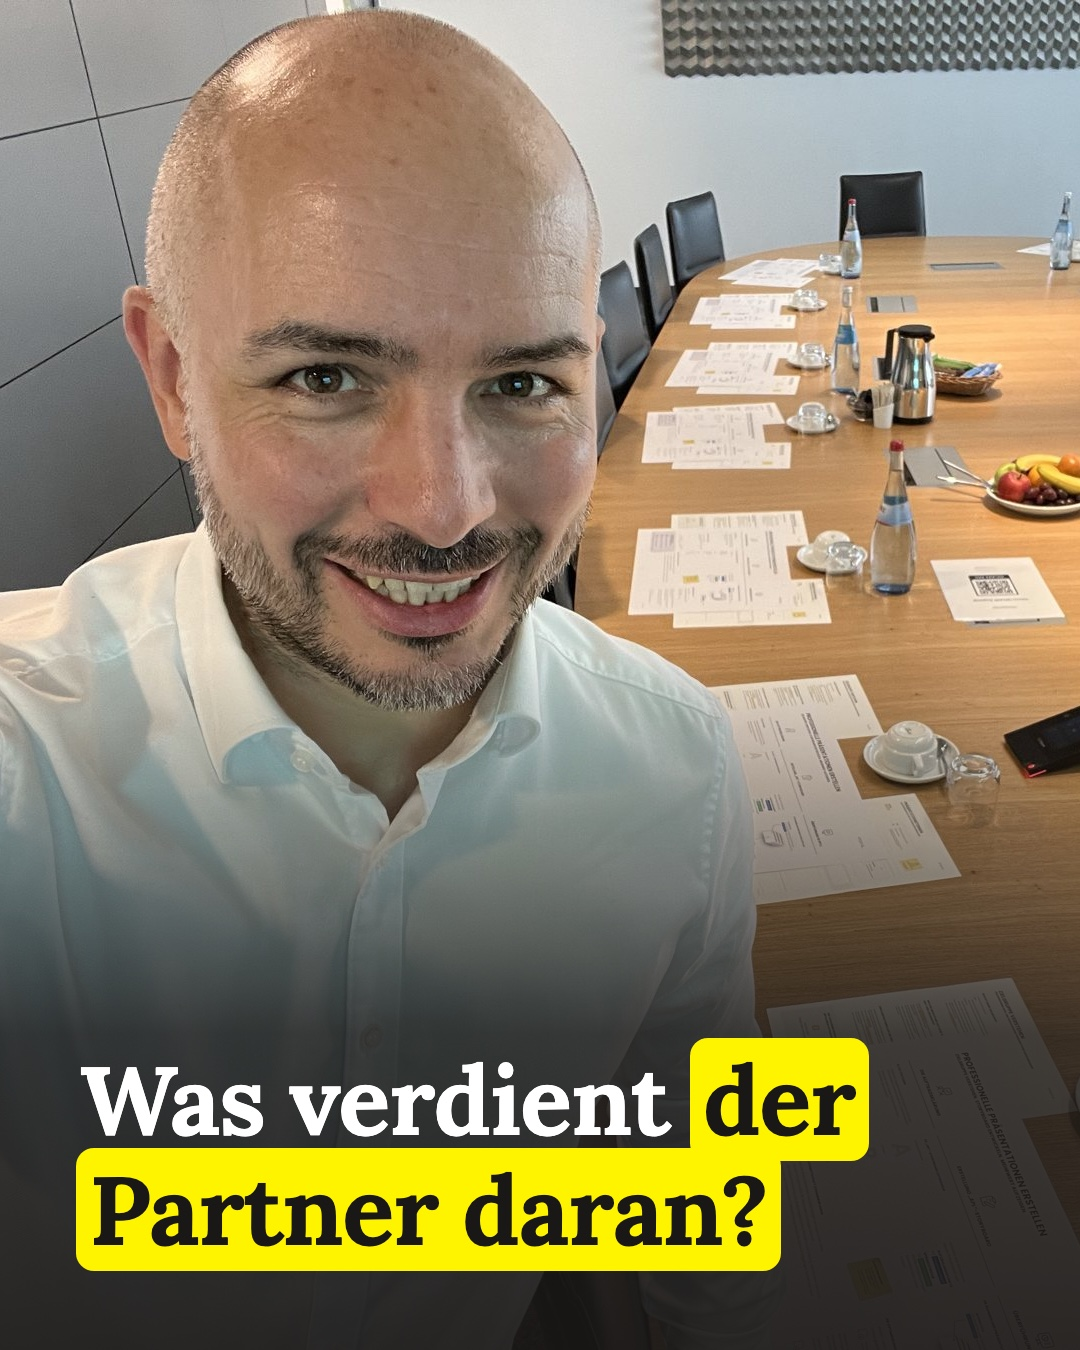
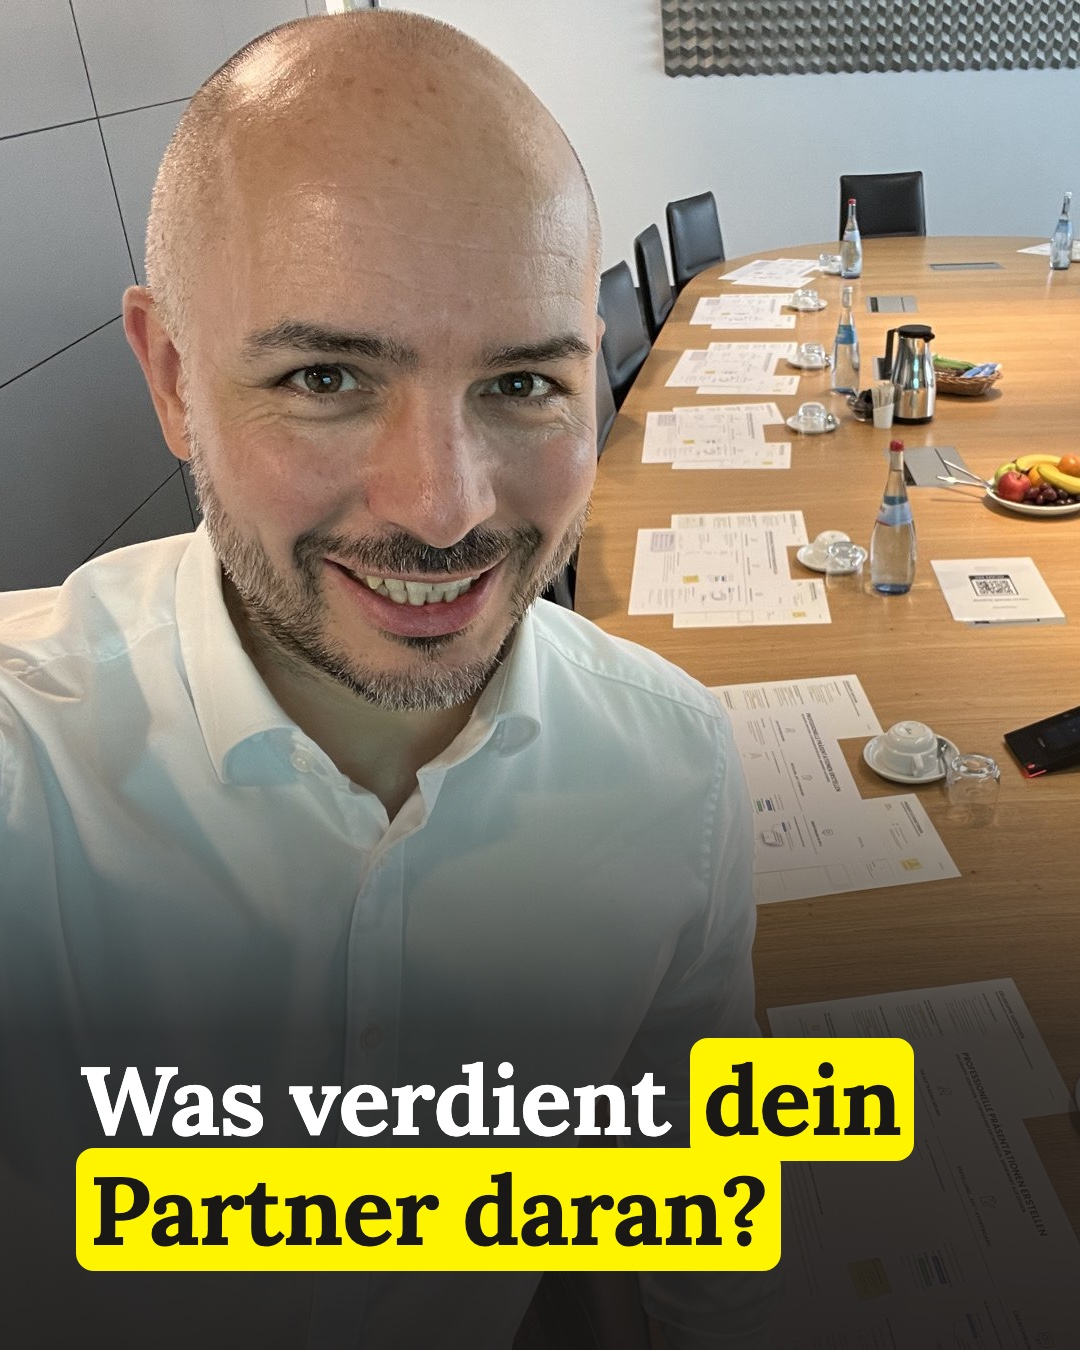
Posting 03.11.: „dein Partner“ in Bild und Text

Changed region(s): [[0.7639, 0.7467, 0.8556, 0.8711]]

diff --git a/werkzeuge/medienkonzept/postings-vorlage.html b/werkzeuge/medienkonzept/postings-vorlage.html
@@ -743,7 +743,7 @@ html, body { width:1080px; background:#fff; }
 
 <section class="p schwarz" id="rp20"><p class="k">Wenn ein Team nicht mitzieht</p><p class="fr-gross" style="margin-top:60px;color:#fff;font-size:104px;max-width:880px;position:relative">Würdest du an ihrer Stelle <span class="hl">anders</span> entscheiden?</p><div class="an" style="width:700px;height:700px;right:-220px;bottom:-190px;color:#fff400"><svg viewBox="0 0 232.44 232.44" aria-hidden="true"><path fill="currentColor" d="M116.22,22.83c51.49,0,93.39,41.89,93.39,93.39s-41.89,93.39-93.39,93.39S22.83,167.71,22.83,116.22,64.73,22.83,116.22,22.83M116.22,2.83C53.6,2.83,2.83,53.6,2.83,116.22s50.76,113.39,113.39,113.39,113.39-50.76,113.39-113.39S178.84,2.83,116.22,2.83h0Z"/></svg></div><p class="namezeile">Daniel Ströbel</p></section>
 
-<section class="p vollbild" id="rp21"><img src="/assets/projekte/medienkonzept/foto-tisch.jpg" alt="" style="object-position:12% 40%;"><div class="verlauf" style="height:52%"></div><div class="unten"><p class="satz" style="font-size:96px">Was verdient <span class="hl">der Partner daran?</span></p></div></section>
+<section class="p vollbild" id="rp21"><img src="/assets/projekte/medienkonzept/foto-tisch.jpg" alt="" style="object-position:12% 40%;"><div class="verlauf" style="height:52%"></div><div class="unten"><p class="satz" style="font-size:96px">Was verdient <span class="hl">dein Partner daran?</span></p></div></section>
 
 <section class="p" id="rp22"><p class="k">Der Einstieg in die Strategie</p><p class="fr-gross" style="margin-top:40px;font-size:96px">Drei Gespräche. <span class="hl">Je&nbsp;eine&nbsp;Stunde.</span></p><div style="margin-top:100px;display:grid;gap:52px"><div style="display:grid;grid-template-columns:150px 1fr;gap:40px;align-items:start"><b style="display:grid;place-items:center;width:150px;height:150px;border-radius:50%;background:#1a1817;color:#fff400;font:700 78px/1 Poppins,sans-serif">1</b><p style="padding-top:8px"><span style="display:block;font:700 68px/1.15 Lora,Georgia,serif;color:#1a1817">Erzählen</span><span style="display:block;margin-top:12px;font:500 36px/1.4 Poppins,sans-serif;color:#4a4642">Ohne Vorbereitung, ohne Folien.</span></p></div><div style="display:grid;grid-template-columns:150px 1fr;gap:40px;align-items:start"><b style="display:grid;place-items:center;width:150px;height:150px;border-radius:50%;background:#1a1817;color:#fff400;font:700 78px/1 Poppins,sans-serif">2</b><p style="padding-top:8px"><span style="display:block;font:700 68px/1.15 Lora,Georgia,serif;color:#1a1817">Spiegeln</span><span style="display:block;margin-top:12px;font:500 36px/1.4 Poppins,sans-serif;color:#4a4642">Die Grundstory steht.</span></p></div><div style="display:grid;grid-template-columns:150px 1fr;gap:40px;align-items:start"><b style="display:grid;place-items:center;width:150px;height:150px;border-radius:50%;background:#fff400;color:#1a1817;font:700 78px/1 Poppins,sans-serif">3</b><p style="padding-top:8px"><span style="display:block;font:700 68px/1.15 Lora,Georgia,serif;color:#1a1817">Vorgehen</span><span style="display:block;margin-top:12px;font:500 36px/1.4 Poppins,sans-serif;color:#4a4642">Wer ist betroffen? Wie ticken sie?</span></p></div></div><p class="namezeile">Daniel Ströbel</p></section>
 

diff --git a/werkzeuge/medienkonzept/postings_vorlage_bauen.py b/werkzeuge/medienkonzept/postings_vorlage_bauen.py
@@ -765,7 +765,7 @@ teile += [
   <p class="zitat" style="margin-top:220px;font-size:100px;line-height:1.15;max-width:910px">„Welche Maklerleistungen brauchen Kunden <span class="hl">in zehn Jahren</span> noch?“</p>
   <p class="quelle" style="color:#6b6762">— Tobias Knörrer, Geschäftsführer der bbg (DKM), im Interview mit VWheute</p>%s%s</section>""" % (anschnitt(F, 520, -170, -170, "#1a1817"), NAME),
     """<section class="p schwarz" id="rp20"><p class="k">Wenn ein Team nicht mitzieht</p><p class="fr-gross" style="margin-top:60px;color:#fff;font-size:104px;max-width:880px;position:relative">Würdest du an ihrer Stelle <span class="hl">anders</span> entscheiden?</p>%s%s</section>""" % (anschnitt(O, 700, -220, -190, "#fff400"), NAME),
-    """<section class="p vollbild" id="rp21">%s<div class="verlauf" style="height:52%%"></div><div class="unten"><p class="satz" style="font-size:96px">Was verdient <span class="hl">der Partner daran?</span></p></div></section>""" % vb("foto-tisch.jpg", "12% 40%"),
+    """<section class="p vollbild" id="rp21">%s<div class="verlauf" style="height:52%%"></div><div class="unten"><p class="satz" style="font-size:96px">Was verdient <span class="hl">dein Partner daran?</span></p></div></section>""" % vb("foto-tisch.jpg", "12% 40%"),
     """<section class="p" id="rp22"><p class="k">Der Einstieg in die Strategie</p><p class="fr-gross" style="margin-top:40px;font-size:96px">Drei Gespräche. <span class="hl">Je&nbsp;eine&nbsp;Stunde.</span></p>%s%s</section>""" % (ZEIT, NAME),
     """<section class="p vollbild" id="rp23">%s<div class="verlauf" style="height:42%%"></div><div class="unten"><p class="satz" style="font-size:96px">„Eigentlich<br>ist es <span class="hl">doch so.“</span></p></div></section>""" % vb("foto-flipchart.jpg", "18% 40%"),
     """<section class="p gelbgrund" id="rp24"><p class="k" style="color:#1a1817">Gedankenexperiment</p><p class="fr-gross" style="margin-top:40px;font-size:92px;color:#1a1817">Deine Abteilung ist ab morgen eine GmbH.</p>%s%s</section>""" % (BROWSER, GELBNAME),
